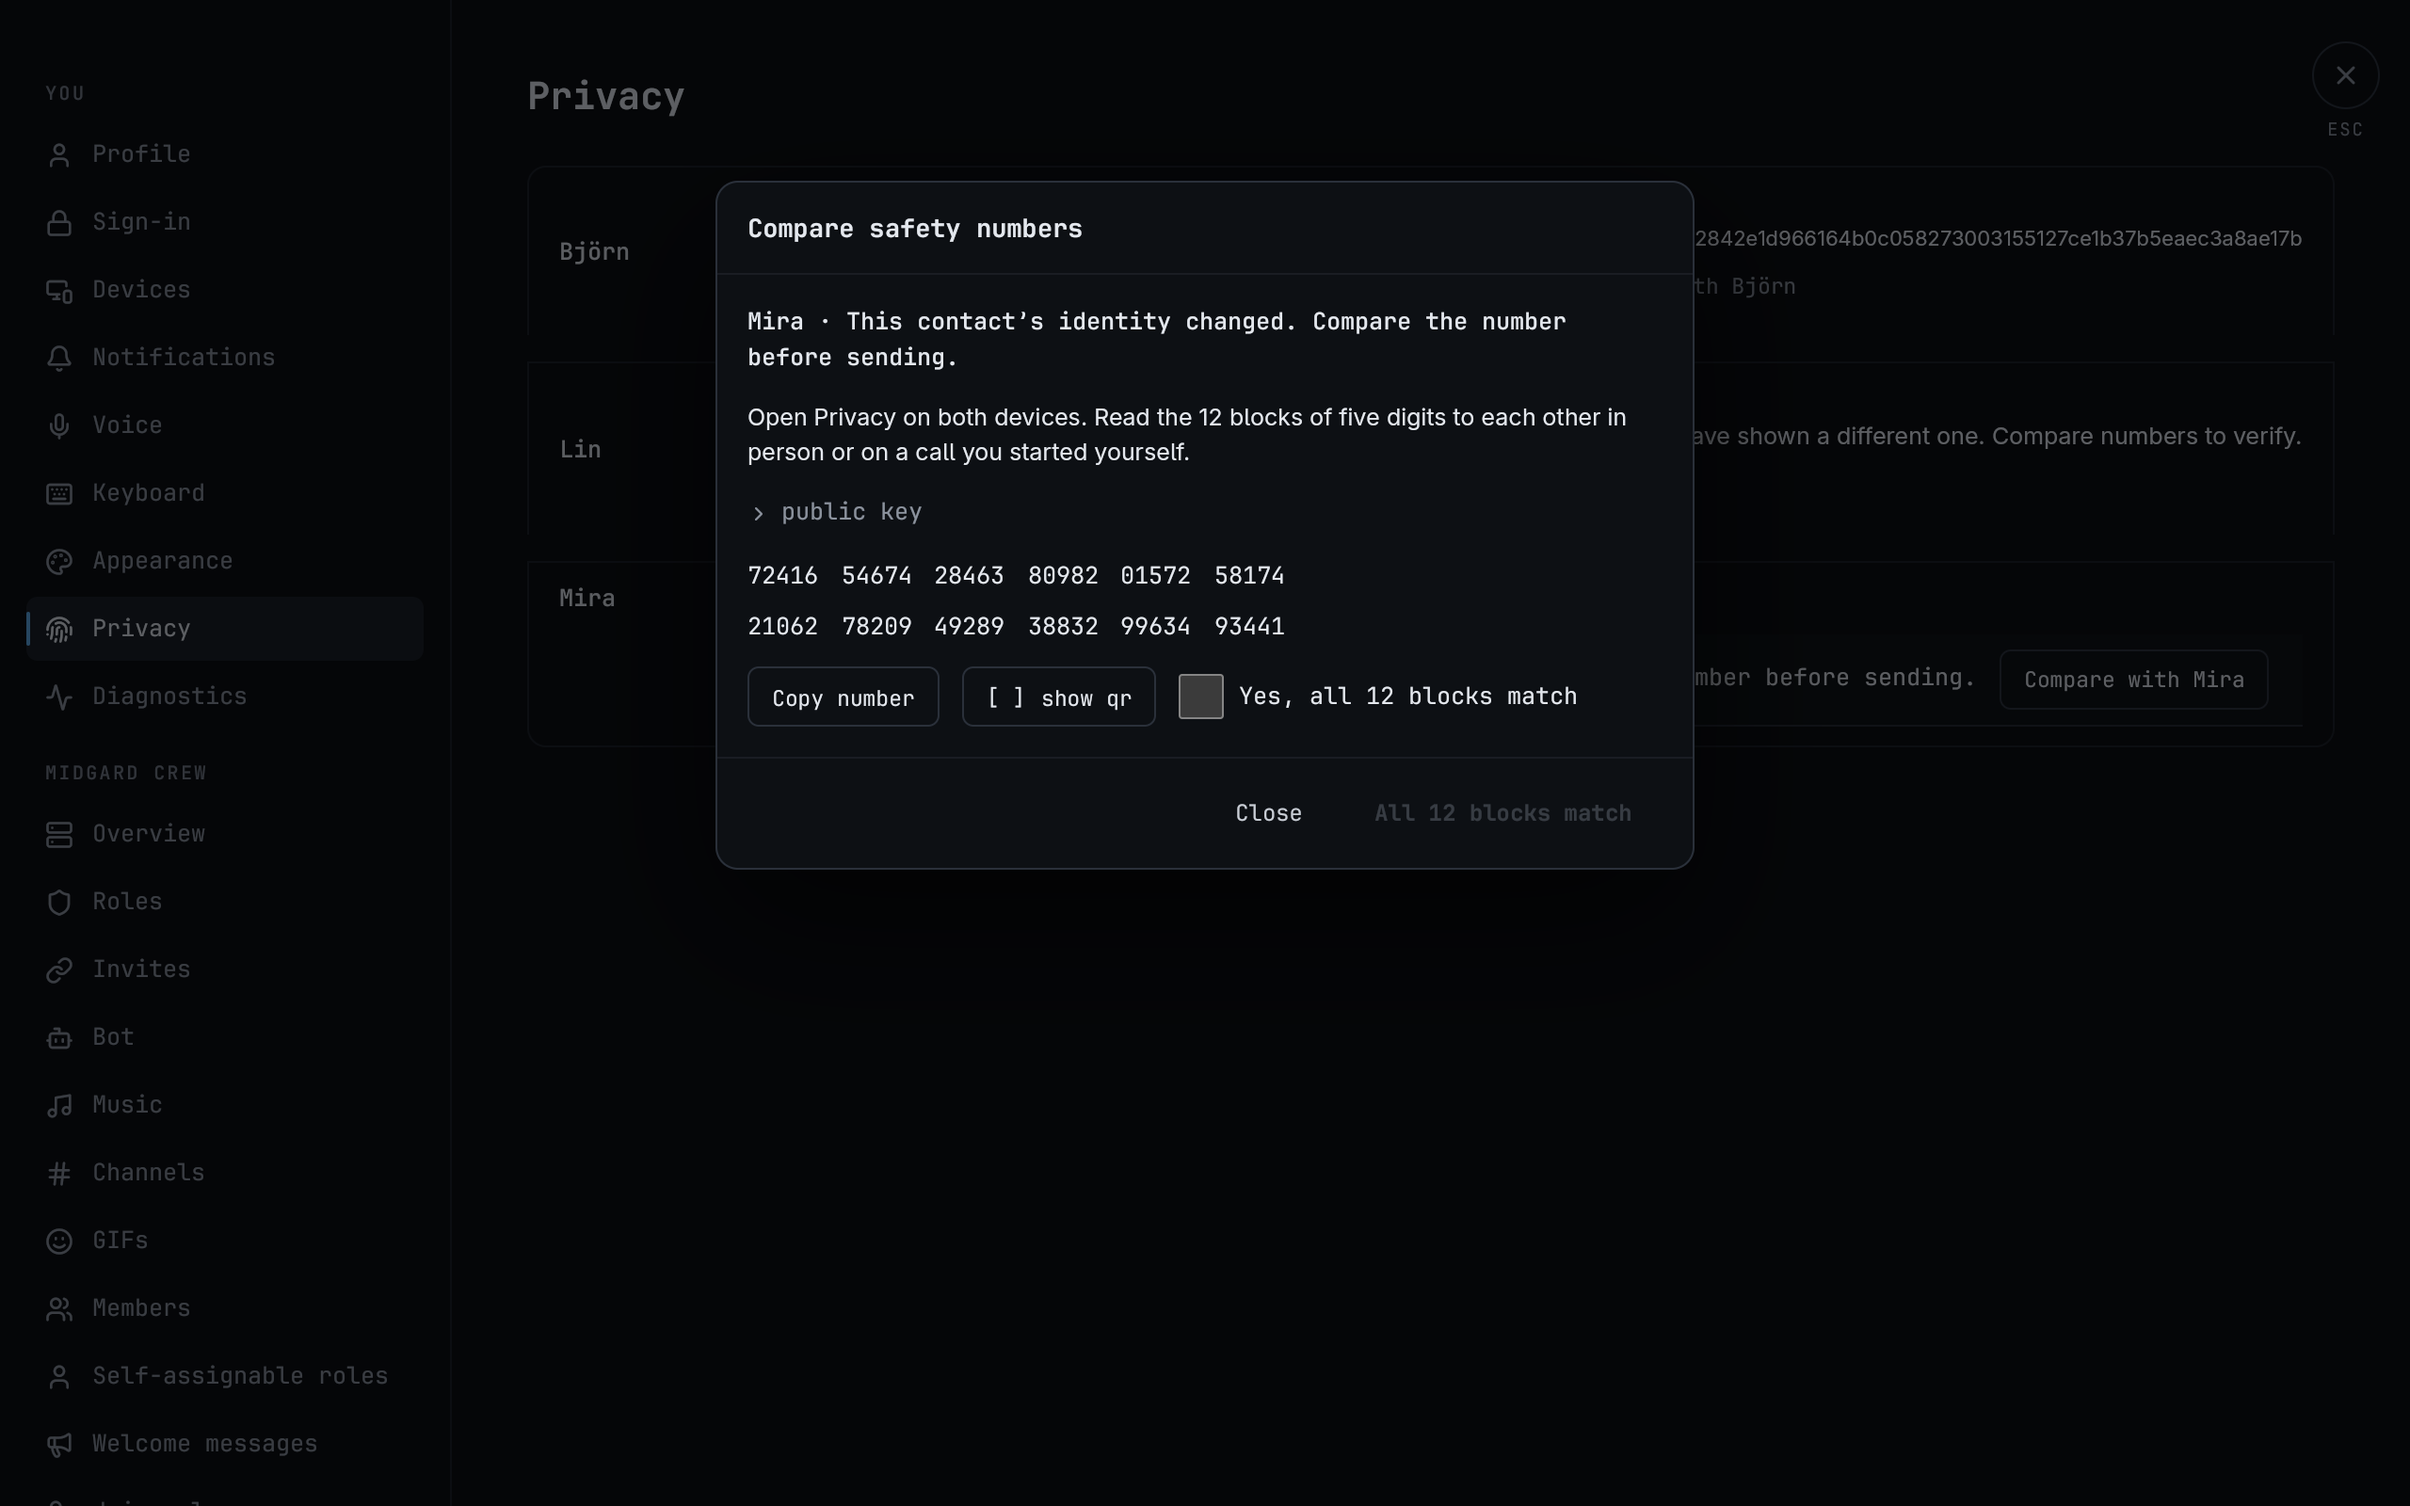
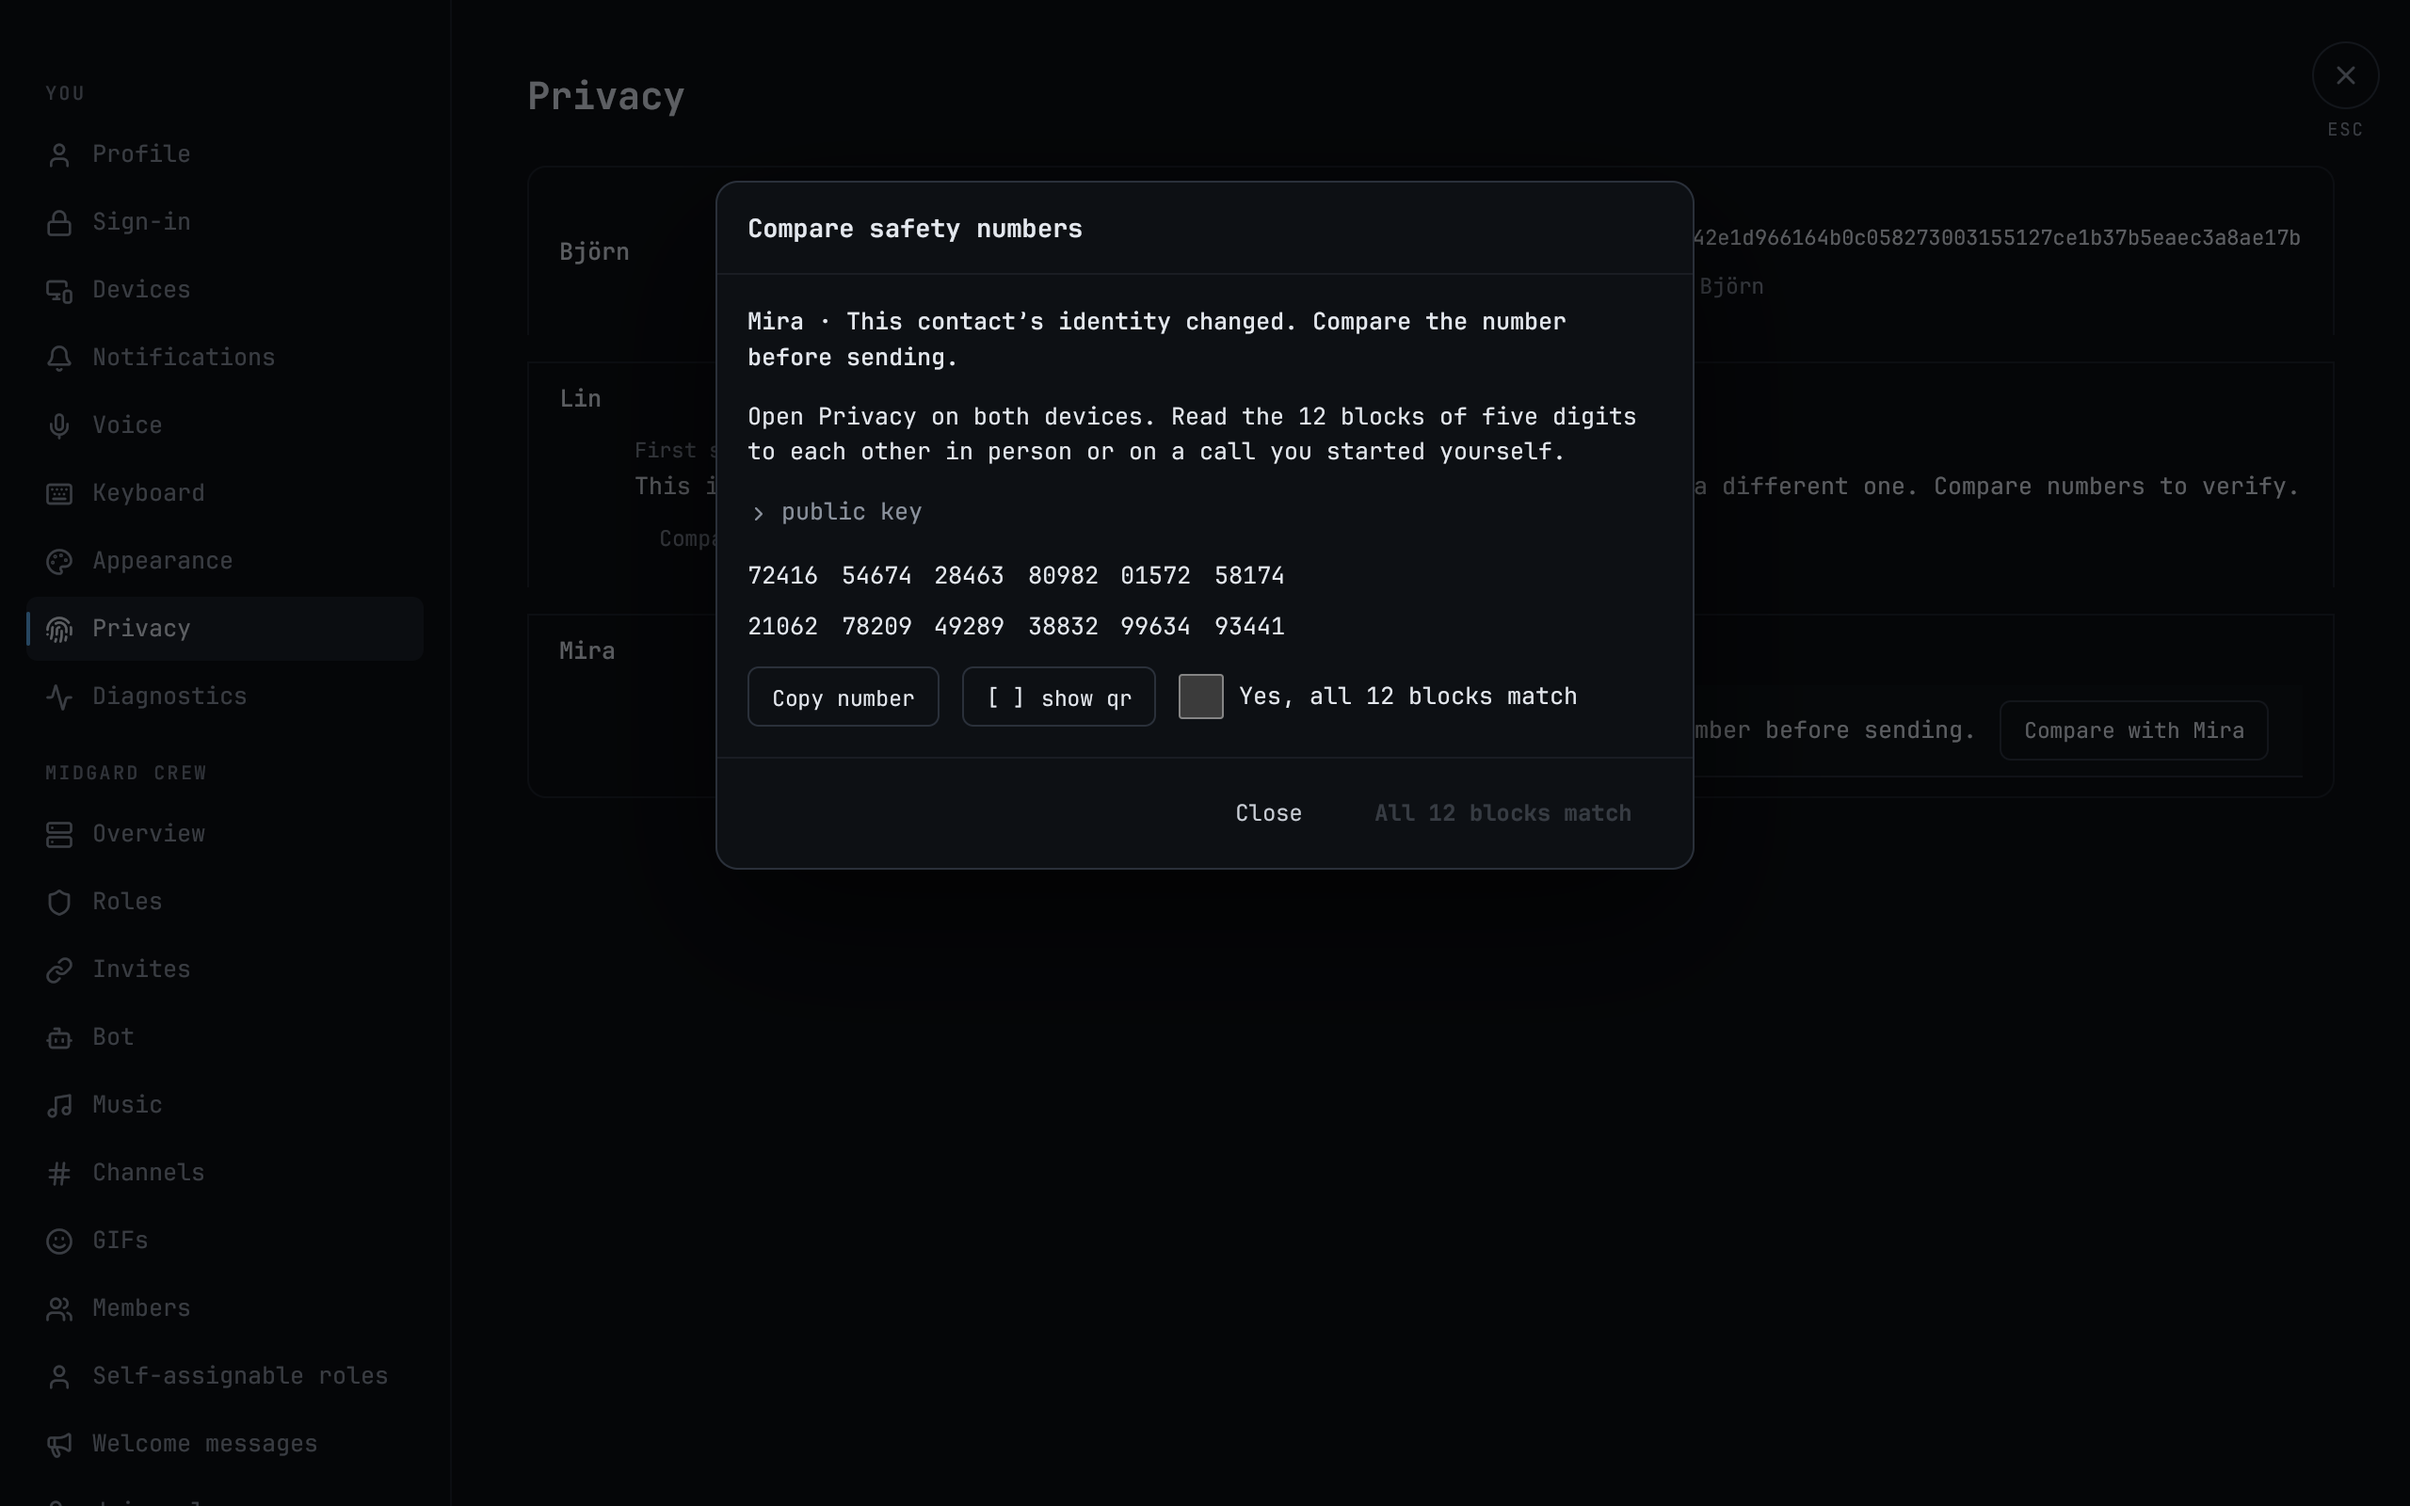
desktop: the trust rows and the comparison draw in JetBrains Mono, not the host's system sans
The Privacy rows' body text, compared key and toned states, and the safety
comparison's paragraphs and key, named no font family, so GPUI drew them in
.SystemUIFont: Adwaita Sans on the machine that blessed the goldens, DejaVu
Sans on the CI runner. Their width moved every control column, and
native_privacy_{section,changed,compare} failed on CI only (reproduced
locally with a DejaVu-only fontconfig: privacy-changed 49018 px, as on CI).

They now name font::MONO (--font-mono, embedded). dilla-parity gains
screen::one_system_font and assert_native_screen_with; dms.rs
native_trust_screens_do_not_depend_on_system_fonts runs the trust screens
with DejaVu Sans as the only system face (red on the old code). Goldens and
the three Privacy docs screenshots re-blessed.

Claude-Session: https://claude.ai/code/session_012Nny5K2B969mk49QX3XSXG

diff --git a/clients/desktop/parity/src/screen.rs b/clients/desktop/parity/src/screen.rs
@@ -234,10 +234,103 @@ pub fn assert_native_screen_at(
     golden: &str,
     prepare: impl FnOnce(&mut Driver),
 ) -> Result<ScreenReport, ParityFailure> {
+    native_screen(root, bless, fixture, golden, &[], "", prepare)
+}
+
+/// [`assert_native_screen`] with environment variables for the app, against the same golden and never blessing it: the
+/// control that a frame does not depend on the host's fonts ([`one_system_font`]). Its frame is saved as
+/// `native-<golden>-<tag>-gpui-2x.png`, beside the plain run's.
+pub fn assert_native_screen_with(
+    fixture: &Path,
+    golden: &str,
+    env: &[(&str, &str)],
+    tag: &str,
+    prepare: impl FnOnce(&mut Driver),
+) -> Result<ScreenReport, ParityFailure> {
+    let root = std::env::var_os(NATIVE_ROOT_VAR)
+        .map(PathBuf::from)
+        .unwrap_or_else(|| Path::new(env!("CARGO_MANIFEST_DIR")).join("references/linux/native"));
+    native_screen(&root, false, fixture, golden, env, tag, prepare)
+}
+
+/// A fontconfig file (for the app's `FONTCONFIG_FILE`) whose only font directory holds DejaVu Sans and nothing else
+/// (`target/screen-parity/one-system-font/`): besides the faces the app embeds (JetBrains Mono, DM Serif Display), the
+/// app sees one system face. A text run that names no embedded family is GPUI's `.SystemUIFont`, which on Linux resolves
+/// through "IBM Plex Sans" and then a list of system families ("Adwaita Sans", "Cantarell", "Noto Sans", "DejaVu Sans",
+/// ...), so the host's installed fonts decide that text's width and every column laid out around it. Under this file it
+/// is DejaVu Sans, the face the CI runner resolves; a frame blessed on a host that resolves another face then differs.
+/// (No system font at all is not possible: gpui-component resolves `.SystemUIFont` at startup and panics without one.
+/// fontdb ignores a fontconfig file with no `<dir>` and scans the known font directories instead.)
+///
+/// Panics when the host has no DejaVu Sans (`DejaVuSans.ttf` under `/usr/share/fonts` or `/usr/local/share/fonts`;
+/// Debian's fonts-dejavu-core, which fontconfig depends on).
+pub fn one_system_font() -> String {
+    fn find(dir: &Path, name: &str) -> Option<PathBuf> {
+        let mut entries: Vec<_> = std::fs::read_dir(dir)
+            .ok()?
+            .flatten()
+            .map(|e| e.path())
+            .collect();
+        entries.sort();
+        entries
+            .iter()
+            .find(|p| p.file_name().is_some_and(|n| n == name))
+            .cloned()
+            .or_else(|| {
+                entries
+                    .iter()
+                    .filter(|p| p.is_dir())
+                    .find_map(|p| find(p, name))
+            })
+    }
+    let source = ["/usr/share/fonts", "/usr/local/share/fonts"]
+        .iter()
+        .find_map(|d| find(Path::new(d), "DejaVuSans.ttf"))
+        .expect("DejaVu Sans (DejaVuSans.ttf) is installed: fonts-dejavu-core");
+    let root = crate::target_dir()
+        .join("screen-parity")
+        .join("one-system-font");
+    let fonts = root.join("fonts");
+    std::fs::create_dir_all(&fonts).expect("the font directory");
+    // Each file is written aside and renamed into place: parallel tests never read a half-written one.
+    let staged = |name: &str| {
+        root.join(format!(
+            "{name}.{}.{:?}",
+            std::process::id(),
+            std::thread::current().id()
+        ))
+    };
+    let face = staged("DejaVuSans.ttf");
+    std::fs::copy(&source, &face).expect("DejaVu Sans is copied");
+    std::fs::rename(&face, fonts.join("DejaVuSans.ttf")).expect("DejaVu Sans in place");
+    let conf = root.join("fonts.conf");
+    let staged = staged("fonts.conf");
+    std::fs::write(
+        &staged,
+        format!(
+            "<?xml version=\"1.0\"?>\n<!DOCTYPE fontconfig SYSTEM \"fonts.dtd\">\n<fontconfig>\n  <dir>{}</dir>\n  <cachedir>{}</cachedir>\n</fontconfig>\n",
+            fonts.display(),
+            root.join("cache").display()
+        ),
+    )
+    .expect("the fontconfig file");
+    std::fs::rename(&staged, &conf).expect("the fontconfig file in place");
+    conf.to_string_lossy().into_owned()
+}
+
+fn native_screen(
+    root: &Path,
+    bless: bool,
+    fixture: &Path,
+    golden: &str,
+    env: &[(&str, &str)],
+    tag: &str,
+    prepare: impl FnOnce(&mut Driver),
+) -> Result<ScreenReport, ParityFailure> {
     let os = Os::current();
     let loaded = fixture::load(fixture, os).map_err(|e| fixture_failure(e.to_string(), fixture))?;
     let tolerance = tolerance_for(os)?;
-    let mut driver = Driver::launch_fixture(fixture, None, &[]);
+    let mut driver = Driver::launch_fixture(fixture, None, env);
     let fixture_line = driver
         .fixture_line()
         .expect("a fixture launch answers `fixture`");
@@ -249,7 +342,15 @@ pub fn assert_native_screen_at(
     let text_lines = driver.text_bounds().len();
     let mask = text_mask(&mut driver, TEXT_FRINGE_PX);
     let out = crate::target_dir().join("screen-parity");
-    let shot_path = out.join(format!("native-{}-gpui-2x.png", golden.replace('/', "-")));
+    let tag = if tag.is_empty() {
+        String::new()
+    } else {
+        format!("-{tag}")
+    };
+    let shot_path = out.join(format!(
+        "native-{}{tag}-gpui-2x.png",
+        golden.replace('/', "-")
+    ));
     std::fs::create_dir_all(&out).expect("the screen-parity directory");
     shot.save(&shot_path).expect("the shot is saved");
     let path = root.join(format!("{golden}-2x.png"));

diff --git a/clients/desktop/dilla-desktop-ui/src/components/dms/privacy.rs b/clients/desktop/dilla-desktop-ui/src/components/dms/privacy.rs
@@ -1,11 +1,15 @@
 //! The Privacy section's contact states (packages/web app.css `dw-trust-*`): a state line with a toned 3px left edge
 //! (`.dw-trust-state[data-tone]`: `.5rem` in, `--fg` text; warn or danger edge), the compared public key in mono
 //! (`.dw-trust-key`, breaking anywhere), and the conversation's removed note (`.dw-trust-removed`, a status line).
+//!
+//! Every text here names the design's family (`--font-mono`, JetBrains Mono, embedded): a GPUI text run with no family
+//! is `.SystemUIFont`, which resolves to whatever sans the host has installed, so its width (and every column laid out
+//! around it) changed from host to host (tests/dms.rs `native_trust_screens_do_not_depend_on_system_fonts`).
 
 use gpui::{InteractiveElement, IntoElement, ParentElement, SharedString, Styled, div, px};
 
 use crate::text::line;
-use crate::tokens::{color, text};
+use crate::tokens::{color, font, text};
 
 /// `data-tone` of a state line.
 #[derive(Clone, Copy, Debug, PartialEq, Eq)]
@@ -38,6 +42,7 @@ pub fn trust_state(text_: impl Into<SharedString>, tone: TrustTone) -> gpui::Div
                 .border_color(edge)
                 .child(
                     div()
+                        .font_family(font::MONO)
                         .text_size(text::SM)
                         .line_height(px(lh))
                         .text_color(color::FG)
@@ -50,6 +55,7 @@ pub fn trust_state(text_: impl Into<SharedString>, tone: TrustTone) -> gpui::Div
 /// Plain body text of a contact row (`<p>`), wrapping.
 pub fn body_text(text_: impl Into<SharedString>) -> gpui::Div {
     div()
+        .font_family(font::MONO)
         .text_size(text::SM)
         .line_height(px(crate::text::root_line_height(text::SM)))
         .text_color(color::FG)
@@ -60,6 +66,7 @@ pub fn body_text(text_: impl Into<SharedString>) -> gpui::Div {
 pub fn trust_key(key: impl Into<SharedString>) -> impl IntoElement {
     div()
         .id("trust-key")
+        .font_family(font::MONO)
         .text_size(text::XS)
         .line_height(px(crate::text::root_line_height(text::XS)))
         .text_color(color::FG)

diff --git a/clients/desktop/dilla-desktop/tests/dms.rs b/clients/desktop/dilla-desktop/tests/dms.rs
@@ -454,6 +454,47 @@ fn native_trust(fixture: &str, golden: &str) {
     );
 }
 
+/// The trust screens' frames do not depend on the host's fonts: with DejaVu Sans as the only system face
+/// (`one_system_font`, the face the CI runner resolves) each frame still equals its golden. The Privacy rows' body text,
+/// key and toned states, and the comparison's instructions, once named no family, so GPUI drew them in the host's
+/// `.SystemUIFont` fallback (Adwaita Sans on the machine that blessed them, DejaVu Sans on the CI runner): their width
+/// moved every control column and the goldens failed on CI only.
+#[test]
+#[cfg_attr(
+    not(target_os = "linux"),
+    ignore = "fontconfig is the Linux font source"
+)]
+fn native_trust_screens_do_not_depend_on_system_fonts() {
+    let conf = dilla_parity::screen::one_system_font();
+    let env = [("FONTCONFIG_FILE", conf.as_str())];
+    let fixtures = std::path::Path::new(env!("CARGO_MANIFEST_DIR")).join("../parity/fixtures");
+    for (fixture, golden) in [
+        ("trust/privacy", "privacy-section"),
+        ("trust/privacy-changed", "privacy-changed"),
+        ("dms/identity-changed", "dms-identity-changed"),
+    ] {
+        dilla_parity::screen::assert_native_screen_with(
+            &fixtures.join(format!("{fixture}.json")),
+            golden,
+            &env,
+            "one-system-font",
+            |_| {},
+        )
+        .unwrap_or_else(|e| panic!("{fixture} with DejaVu Sans the only system font: {e}"));
+    }
+    dilla_parity::screen::assert_native_screen_with(
+        &fixtures.join("trust/privacy-compare.json"),
+        "privacy-compare",
+        &env,
+        "one-system-font",
+        |app| {
+            app.click("privacy-compare-2");
+            app.wait_for("safety-compare-dialog", std::time::Duration::from_secs(10));
+        },
+    )
+    .unwrap_or_else(|e| panic!("trust/privacy-compare with DejaVu Sans the only system font: {e}"));
+}
+
 /// Settings -> Privacy (`trust/privacy`): Björn verified with his compared key, Lin and Mira first seen here, each with
 /// Compare.
 #[test]

diff --git a/clients/desktop/dilla-desktop-ui/src/components/dms/safety_compare.rs b/clients/desktop/dilla-desktop-ui/src/components/dms/safety_compare.rs
@@ -130,8 +130,11 @@ impl SafetyCompareBody {
     }
 }
 
+/// A wrapping paragraph in the dialog's family (`.d-dialog__panel`: `--font-mono`); a run with no family would be the
+/// host's `.SystemUIFont` (privacy.rs).
 fn para(text_: SharedString, colour: gpui::Hsla) -> gpui::Div {
     div()
+        .font_family(font::MONO)
         .text_size(text::SM)
         .line_height(px(crate::text::root_line_height(text::SM)))
         .text_color(colour)
@@ -183,6 +186,7 @@ impl RenderOnce for SafetyCompareBody {
                     div()
                         .id("safety-public-umk")
                         .mt(px(6.0))
+                        .font_family(font::MONO)
                         .text_size(text::SM)
                         .line_height(px(lh))
                         .text_color(color::FG)
